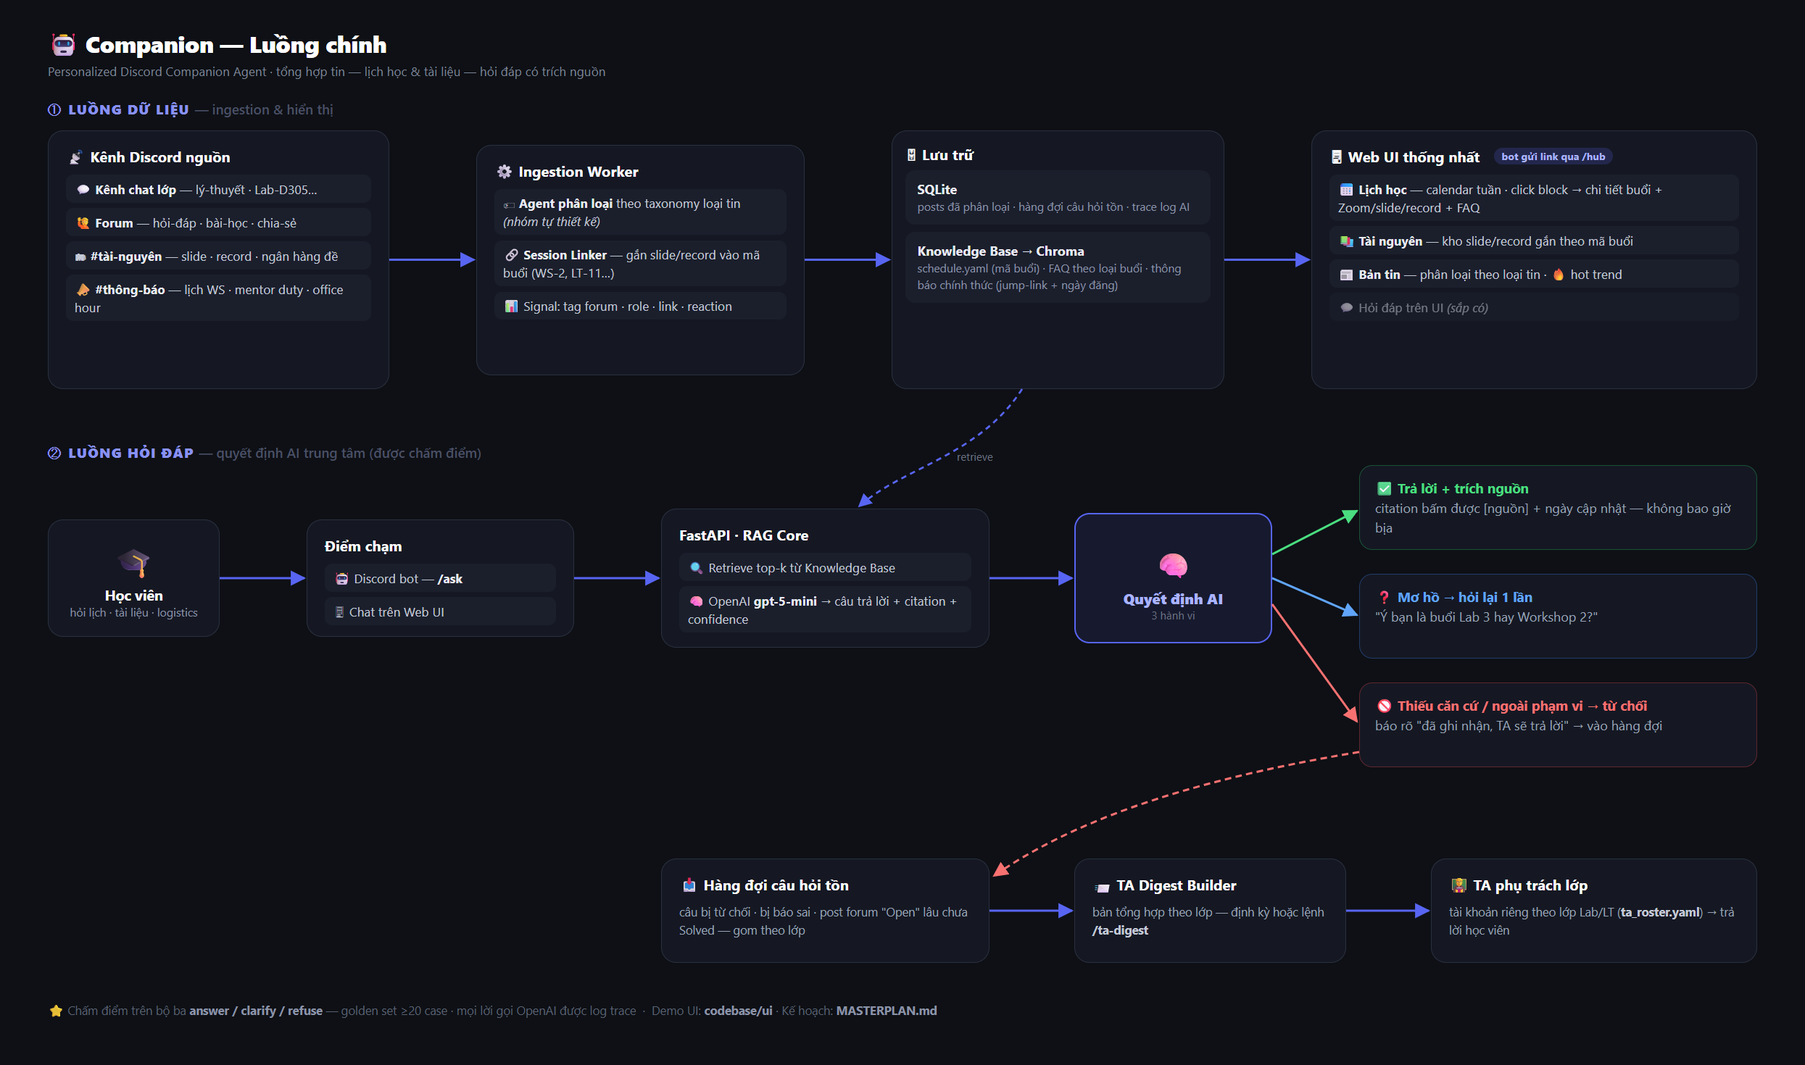
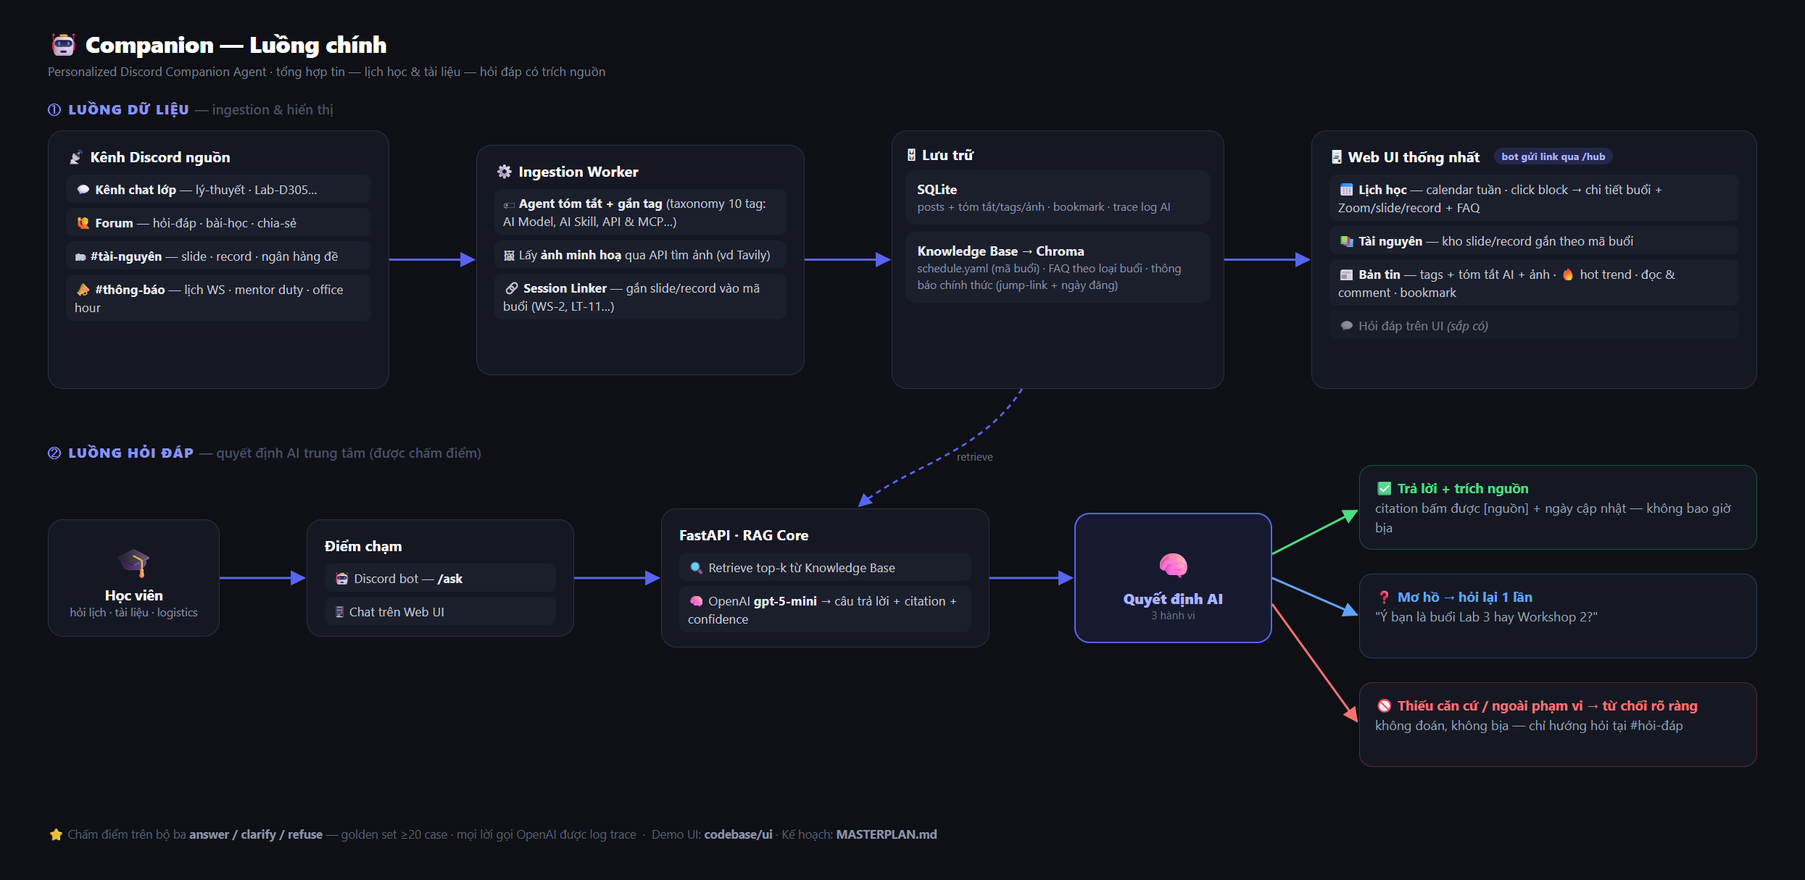
Remove TA escalation flow; refusal now redirects to #hoi-dap channel
- Central AI decision simplified: answer-with-citation / clarify /
  refuse (honest refusal pointing users to #hoi-dap) - no more queue,
  TA digest, /ta-digest command, TA accounts or ta_roster.yaml
- MASTERPLAN: slice sentence, architecture (mermaid + component table),
  digest sources, difficulty layer 1, automation rationale,
  failure/correction paths, HAX principles, roles (Minh 4 bot commands,
  Binh drops ta_roster), repo tree updated
- Flow diagram: TA row removed, refuse branch reworded; ingestion box
  now shows summarize + 10-tag taxonomy + Tavily image step

diff --git a/codebase/ui/public/flow.html b/codebase/ui/public/flow.html
@@ -5,7 +5,7 @@
 <style>
   * { margin:0; padding:0; box-sizing:border-box; }
   body { background:#0e1015; font-family:"Segoe UI",system-ui,sans-serif; color:#e5e7eb; }
-  #canvas { position:relative; width:1660px; height:980px; background:#0e1015; overflow:hidden; }
+  #canvas { position:relative; width:1660px; height:810px; background:#0e1015; overflow:hidden; }
   .box { position:absolute; background:#151823; border:1px solid #2a3040; border-radius:14px; padding:14px 16px; }
   .box h3 { font-size:13.5px; font-weight:700; color:#fff; margin-bottom:8px; display:flex; align-items:center; gap:7px; }
   .box .sub { font-size:10.5px; color:#8b93a7; margin-top:-6px; margin-bottom:8px; }
@@ -41,16 +41,16 @@
 
   <div class="box" style="left:438px;top:133px;width:302px;height:212px;">
     <h3>⚙ Ingestion Worker</h3>
-    <div class="item">🏷 <b>Agent phân loại</b> theo taxonomy loại tin <i>(nhóm tự thiết kế)</i></div>
+    <div class="item">🏷 <b>Agent tóm tắt + gắn tag</b> (taxonomy 10 tag: AI Model, AI Skill, API &amp; MCP…)</div>
+    <div class="item">🖼 Lấy <b>ảnh minh hoạ</b> qua API tìm ảnh (vd Tavily)</div>
     <div class="item">🔗 <b>Session Linker</b> — gắn slide/record vào mã buổi (WS-2, LT-11…)</div>
-    <div class="item">📊 Signal: tag forum · role · link · reaction</div>
   </div>
 
   <div class="box" style="left:820px;top:120px;width:306px;height:238px;padding:12px;">
     <h3 style="margin-bottom:6px;">🗄 Lưu trữ</h3>
     <div style="background:#1b1f2c;border-radius:9px;padding:9px 11px;margin-bottom:7px;">
       <div style="font-size:12px;font-weight:700;color:#e8eaf1;">SQLite</div>
-      <div style="font-size:10.5px;color:#8b93a7;line-height:1.5;">posts đã phân loại · hàng đợi câu hỏi tồn · trace log AI</div>
+      <div style="font-size:10.5px;color:#8b93a7;line-height:1.5;">posts + tóm tắt/tags/ảnh · bookmark · trace log AI</div>
     </div>
     <div style="background:#1b1f2c;border-radius:9px;padding:9px 11px;">
       <div style="font-size:12px;font-weight:700;color:#e8eaf1;">Knowledge Base → Chroma</div>
@@ -62,7 +62,7 @@
     <h3>🖥 Web UI thống nhất <span class="tag" style="background:#5865f233;color:#aab4ff;">bot gửi link qua /hub</span></h3>
     <div class="item">📅 <b>Lịch học</b> — calendar tuần · click block → chi tiết buổi + Zoom/slide/record + FAQ</div>
     <div class="item">📚 <b>Tài nguyên</b> — kho slide/record gắn theo mã buổi</div>
-    <div class="item">📰 <b>Bản tin</b> — phân loại theo loại tin · 🔥 hot trend</div>
+    <div class="item">📰 <b>Bản tin</b> — tags + tóm tắt AI + ảnh · 🔥 hot trend · đọc &amp; comment · bookmark</div>
     <div class="item" style="opacity:.55;">💬 Hỏi đáp trên UI <i>(sắp có)</i></div>
   </div>
 
@@ -102,31 +102,17 @@
     <span style="color:#9aa3b5;">"Ý bạn là buổi Lab 3 hay Workshop 2?"</span>
   </div>
   <div class="out" style="left:1250px;top:628px;width:366px;height:78px;border:1px solid #ef444455;">
-    <b style="color:#f87171;">🚫 Thiếu căn cứ / ngoài phạm vi → từ chối</b><br/>
-    <span style="color:#9aa3b5;">báo rõ "đã ghi nhận, TA sẽ trả lời" → vào hàng đợi</span>
-  </div>
-
-  <!-- TA escalation row -->
-  <div class="box" style="left:608px;top:790px;width:302px;height:96px;">
-    <h3>📥 Hàng đợi câu hỏi tồn</h3>
-    <div style="font-size:11px;color:#9aa3b5;line-height:1.5;">câu bị từ chối · bị báo sai · post forum "Open" lâu chưa Solved — gom theo lớp</div>
-  </div>
-  <div class="box" style="left:988px;top:790px;width:250px;height:96px;">
-    <h3>📨 TA Digest Builder</h3>
-    <div style="font-size:11px;color:#9aa3b5;line-height:1.5;">bản tổng hợp theo lớp — định kỳ hoặc lệnh <b style="color:#c3c9d6;">/ta-digest</b></div>
-  </div>
-  <div class="box" style="left:1316px;top:790px;width:300px;height:96px;">
-    <h3>🧑🏫 TA phụ trách lớp</h3>
-    <div style="font-size:11px;color:#9aa3b5;line-height:1.5;">tài khoản riêng theo lớp Lab/LT (<b style="color:#c3c9d6;">ta_roster.yaml</b>) → trả lời học viên</div>
+    <b style="color:#f87171;">🚫 Thiếu căn cứ / ngoài phạm vi → từ chối rõ ràng</b><br/>
+    <span style="color:#9aa3b5;">không đoán, không bịa — chỉ hướng hỏi tại #hỏi-đáp</span>
   </div>
 
   <!-- Footer -->
-  <div style="position:absolute;left:44px;top:922px;font-size:11px;color:#5a6172;">
+  <div style="position:absolute;left:44px;top:760px;font-size:11px;color:#5a6172;">
     ⭐ Chấm điểm trên bộ ba <b style="color:#8b93a7;">answer / clarify / refuse</b> — golden set ≥20 case · mọi lời gọi OpenAI được log trace &nbsp;·&nbsp; Demo UI: <b style="color:#8b93a7;">codebase/ui</b> · Kế hoạch: <b style="color:#8b93a7;">MASTERPLAN.md</b>
   </div>
 
   <!-- Wires -->
-  <svg class="wires" width="1660" height="980" viewBox="0 0 1660 980">
+  <svg class="wires" width="1660" height="810" viewBox="0 0 1660 810" preserveAspectRatio="none">
     <defs>
       <marker id="ar" viewBox="0 0 10 10" refX="9" refY="5" markerWidth="7" markerHeight="7" orient="auto-start-reverse">
         <path d="M0,0 L10,5 L0,10 z" fill="#5865f2"/>
@@ -156,11 +142,6 @@
     <line x1="1170" y1="510" x2="1248" y2="470" stroke="#4ade80" stroke-width="2" marker-end="url(#arg)"/>
     <line x1="1170" y1="532" x2="1248" y2="566" stroke="#60a5fa" stroke-width="2" marker-end="url(#arb)"/>
     <line x1="1170" y1="556" x2="1248" y2="664" stroke="#f87171" stroke-width="2" marker-end="url(#arr)"/>
-    <!-- refuse -> queue -->
-    <path d="M 1250 692 C 1080 720, 980 760, 914 806" fill="none" stroke="#f87171" stroke-width="2" stroke-dasharray="6 4" marker-end="url(#arr)"/>
-    <!-- queue -> digest -> TA -->
-    <line x1="910" y1="838" x2="986" y2="838" stroke="#5865f2" stroke-width="2" marker-end="url(#ar)"/>
-    <line x1="1238" y1="838" x2="1314" y2="838" stroke="#5865f2" stroke-width="2" marker-end="url(#ar)"/>
   </svg>
 </div>
 </body>

diff --git a/MASTERPLAN.md b/MASTERPLAN.md
@@ -11,17 +11,15 @@ Một trợ lý đồng hành cá nhân hoá cho học viên khoá AI Thực Chi
 
 1. **Bản tin tổng hợp (News Digest)** — gom bài viết từ 2 nhóm kênh Discord của khoá: **kênh chat từng lớp** (`lý-thuyết`, `thực-hành-lab/Lab-XXX`…) và **kênh forum chia sẻ** (`hỏi-đáp`, `chia-sẻ`, `bài-học`) — agent phân loại theo **bộ loại tin do nhóm tự thiết kế** (taxonomy chốt sau, xem mục Nguồn digest).
 2. **Trung tâm buổi học (Session Hub)** — lịch học, tài liệu tương ứng từng buổi, và FAQ theo loại buổi (Lý thuyết · Lab · Workshop · Office hour). Khung lịch là YAML do nhóm curate; **tài liệu (slide, record Zoom) tự động gắn vào block từng buổi** từ kênh `tài-nguyên`, còn thông tin buổi (giờ, hình thức, diễn giả, link Zoom) và hoạt động tuần (mentor duty, office hour) cập nhật từ kênh `thông-báo`.
-3. **Q&A có trích nguồn** — hỏi đáp về logistics và nội dung khoá, trả lời **chỉ từ nguồn chính thức kèm citation**; biết-mình-không-biết thì ghi nhận câu hỏi vào hàng đợi, **tổng hợp gửi cho TA phụ trách đúng lớp Lab/LT** (mỗi TA có tài khoản riêng).
+3. **Q&A có trích nguồn** — hỏi đáp về logistics và nội dung khoá, trả lời **chỉ từ nguồn chính thức kèm citation**; biết-mình-không-biết thì **từ chối rõ ràng** và chỉ hướng người dùng hỏi tại kênh `#hỏi-đáp`.
 
 Tất cả hiển thị trên **một Web UI thống nhất**; Discord bot gửi link UI khi user gõ lệnh, đồng thời trả lời Q&A ngay trong Discord.
 
 ## 2. Lát cắt hackathon (MỘT CÂU — bắt buộc theo đề bài)
 
-> **Một học viên** khoá AI Thực Chiến · **hỏi về lịch học / tài liệu / logistics buổi học** · **AI quyết định: trả lời kèm trích nguồn chính thức, hỏi lại khi mơ hồ, hay từ chối + ghi nhận cho TA** · **nhận câu trả lời đúng có citation, hoặc được báo rõ câu hỏi đã chuyển đến TA phụ trách — không bao giờ nhận thông tin bịa.**
+> **Một học viên** khoá AI Thực Chiến · **hỏi về lịch học / tài liệu / logistics buổi học** · **AI quyết định: trả lời kèm trích nguồn chính thức, hỏi lại khi mơ hồ, hay từ chối rõ ràng** · **nhận câu trả lời đúng có citation, hoặc lời từ chối kèm chỉ hướng hỏi tại `#hỏi-đáp` — không bao giờ nhận thông tin bịa.**
 
-**Quyết định AI trung tâm** (chấm điểm, có golden set): bộ ba **answer-with-citation / clarify / refuse-and-escalate** trong Q&A. Đây là lời gọi AI thật, không hardcode.
-
-**Cơ chế escalation:** câu hỏi bot không trả lời được → lưu vào hàng đợi kèm lớp/buổi liên quan → **bản tổng hợp câu hỏi chưa trả lời** gửi qua Discord cho **tài khoản TA phụ trách đúng lớp Lab/LT đó** (map trong `ta_roster.yaml`), theo định kỳ hoặc lệnh `/ta-digest`. Đây chính là hướng "bản tin cuối ngày cho TA (câu hỏi tồn)" mà đề bài gợi ý — điểm cộng khi trình bày.
+**Quyết định AI trung tâm** (chấm điểm, có golden set): bộ ba **answer-with-citation / clarify / refuse** trong Q&A. Đây là lời gọi AI thật, không hardcode.
 
 **Các phần KHÔNG phải quyết định trung tâm** (được phép mock/rule-based, khai rõ trong spec):
 - Phân loại tin cho digest: agent phân loại theo taxonomy loại tin nhóm tự thiết kế (chốt sau) — là lời gọi AI phụ, không phải quyết định trung tâm nên không cần golden set riêng, nhưng khai rõ trong spec.
@@ -53,8 +51,6 @@ flowchart LR
     BOT <--> API
     UI[Web UI — React/Vite\nTab: News · Schedule · Chat] <--> API
     BOT -->|gửi link| UI
-    DB -->|câu chưa trả lời\ngom theo lớp| TDG[TA Digest Builder]
-    TDG -->|bot gửi DM| TA((Tài khoản TA\nphụ trách Lab/LT))
 ```
 
 **Thành phần & interface:**
@@ -67,7 +63,6 @@ flowchart LR
 | RAG Core | Chroma + OpenAI API — embeddings `text-embedding-3-small`, chat `gpt-5-mini` (nâng `gpt-5` nếu cần chất lượng) | retrieval top-k → prompt sinh answer + citation + confidence → quyết định answer/clarify/refuse | hàm `answer(question) -> {answer, citations, action, confidence}` |
 | Knowledge Base | YAML/Markdown trong repo + ingest từ Discord | `schedule.yaml`, `faq/*.md` theo loại buổi, tài liệu buổi học, **thông báo chính thức ingest từ kênh `thông-báo`** (citation = jump-link + ngày đăng) | build script → Chroma |
 | Web UI | React + Vite + Tailwind | 3 tab: News (lọc theo loại tin) · Schedule (lịch + tài liệu + FAQ từng buổi) · Chat (widget gọi `/api/ask`) | fetch REST |
-| TA Digest | script Python + bot DM | gom câu hỏi chưa trả lời trong DB theo lớp Lab/LT (map `ta_roster.yaml`: TA ↔ lớp phụ trách) → gửi bản tổng hợp cho tài khoản TA tương ứng, định kỳ hoặc khi TA gõ `/ta-digest` | đọc SQLite, gửi qua bot |
 
 ### Nguồn digest & chiến lược phân loại (theo cấu trúc server thật)
 
@@ -80,12 +75,12 @@ flowchart LR
 | Nhóm kênh | Ví dụ | Cấu trúc | Signal khả dụng cho classifier |
 |---|---|---|---|
 | **Chat từng lớp** | category `thực-hành-lab` → kênh `Lab-D305`, kênh `lý-thuyết` | message thường, không tag | Role tác giả (Lab Coach/TA), link Google Form/Docs, attachment, pinned, reaction — **phương pháp tiếp cận cụ thể (heuristic hay LLM, xử lý link/attachment thế nào) đang nghiên cứu, chốt sau** |
-| **Forum hỏi-đáp** | `🙋-hỏi-đáp` | post có tag sẵn: `Open`/`Solved` + chủ đề (`AI/LLM`, `Frontend`, `Backend`, `Deploy`…) | Tag làm signal phụ trợ; riêng trạng thái `Open` lâu chưa `Solved` được dùng cho TA digest (câu hỏi tồn) |
+| **Forum hỏi-đáp** | `🙋-hỏi-đáp` | post có tag sẵn: `Open`/`Solved` + chủ đề (`AI/LLM`, `Frontend`, `Backend`, `Deploy`…) | Tag làm signal phụ trợ cho classifier |
 | **Forum chia sẻ / bài học** | `📖-bài-học`, `chia-sẻ` | post có tag sẵn: `Tip`, `Tutorial`, `Deep Dive`, `A vs B`, `Postmortem`, `Retro`, `Gotcha`, `Paper/Video` | Tag + reaction/comment làm signal; rank độ nổi bật để chọn "bài đáng đọc" của ngày |
 
 - **Quyết định mở còn lại (chốt trước CP2):** phương pháp phân loại message kênh chat lớp (link, attachment) — An đang nghiên cứu. (Taxonomy loại tin đã chốt như trên — An thiết kế.) Ingestion worker build trước phần đọc kênh + lưu metadata, phần phân loại cắm sau.
 - **Metadata lưu mỗi bài:** kênh, nhóm kênh, lớp (nếu là kênh lớp), tác giả + role, tags, số reaction/comment, timestamp, **jump-link về message gốc** (digest chỉ dẫn link, không copy nội dung dài).
-- **Synergy:** forum `hỏi-đáp` đồng thời là mỏ dữ liệu cho Bình — mining evidence (câu hỏi nguyên văn) và golden set; post `Open` tồn đọng chảy vào TA digest theo đúng cơ chế escalation mục 2.
+- **Synergy:** forum `hỏi-đáp` đồng thời là mỏ dữ liệu cho Bình — mining evidence (câu hỏi nguyên văn) và golden set.
 - Phân loại digest là **lời gọi AI phụ** — khai rõ trong spec; quyết định AI trung tâm được chấm vẫn chỉ là Q&A.
 
 ### Session Hub: nguồn dữ liệu & cơ chế gắn tài liệu
@@ -106,18 +101,18 @@ flowchart LR
 
 | Lớp | Cụ thể hoá trong Companion | Hành vi thiết kế |
 |---|---|---|
-| ① **Nguồn sự thật** | AI có thể bịa deadline, link nộp bài, phòng học | Chỉ sinh câu trả lời từ chunks retrieve được; **mọi claim phải có citation** trỏ về file nguồn; không tìm thấy căn cứ → từ chối + ghi vào hàng đợi gửi TA phụ trách |
+| ① **Nguồn sự thật** | AI có thể bịa deadline, link nộp bài, phòng học | Chỉ sinh câu trả lời từ chunks retrieve được; **mọi claim phải có citation** trỏ về file nguồn; không tìm thấy căn cứ → từ chối rõ ràng + chỉ hướng hỏi tại `#hỏi-đáp` |
 | ② **Mơ hồ / thiếu thông tin** | "Buổi lab tuần này học gì?" — lab nào, tuần nào? | Hỏi lại **tối đa 1 lần** với lựa chọn cụ thể; user không rõ tiếp → đưa link Schedule trên UI |
 | ③ **Ngoài phạm vi / thẩm quyền** | Xin đáp án assignment, hỏi điểm cá nhân, thông tin học viên khác, xin extend deadline | Từ chối hữu ích: nói rõ vì sao + chỉ đúng người/kênh có thẩm quyền (TA, giảng viên) |
 | ④ **Đặc thù domain** | Trả lời **sai deadline/lịch học → học viên nộp muộn, mất điểm thật** (cost-of-error cao nhất) | Ưu tiên precision hơn coverage: confidence thấp → refuse chứ không đoán; câu về deadline luôn kèm nguyên văn nguồn + ngày cập nhật |
 
-**Automation level & lý do (R2):** AI tự trả lời khi retrieval score cao và câu hỏi thuộc scope; **human-in-the-loop** cho mọi case còn lại — câu hỏi vào hàng đợi và TA phụ trách lớp trả lời qua bản tổng hợp. Cost-of-error của sai logistics là học viên mất điểm thật, trong khi cost của escalation chỉ là độ trễ đến bản tổng hợp kế tiếp — và học viên được báo rõ ngay là câu hỏi đã chuyển TA, không bị treo trong im lặng.
+**Automation level & lý do (R2):** AI tự trả lời khi retrieval score cao và câu hỏi thuộc scope; mọi case còn lại bot **từ chối rõ ràng và chỉ hướng người dùng hỏi trực tiếp tại kênh `#hỏi-đáp`**. Cost-of-error của sai logistics là học viên mất điểm thật, trong khi cost của một lời từ chối trung thực chỉ là user mất thêm một bước hỏi ở kênh — đánh đổi này luôn xứng đáng.
 
 **4 đường trải nghiệm (R3):**
 - **Happy:** hỏi "deadline nộp spec?" → answer + citation `[schedule.yaml]` + ngày cập nhật.
 - **Low-confidence:** retrieval mờ → "Mình chưa chắc, ý bạn là buổi Lab 3 hay Workshop 2?" (clarify 1 lần).
-- **Failure:** không có nguồn → "Mình không có thông tin chính thức về việc này — câu hỏi đã được ghi nhận và sẽ gửi TA phụ trách lớp của bạn trong bản tổng hợp gần nhất."
-- **Correction:** user bảo "sai rồi" → xin lỗi, ghi feedback log, đưa câu hỏi + câu trả lời bị báo sai vào hàng đợi để TA phụ trách xác nhận; không cãi.
+- **Failure:** không có nguồn → "Mình không có thông tin chính thức về việc này — bạn hỏi trực tiếp tại kênh `#hỏi-đáp` nhé."
+- **Correction:** user bảo "sai rồi" → xin lỗi, ghi feedback log để nhóm rà lại nguồn; không cãi.
 
 ## 5. Kiểm thử (R4 — 15 điểm)
 
@@ -134,10 +129,10 @@ flowchart LR
 | Ai | Role | Owner chính của | Deliverables (file có tên mình) | Branch |
 |---|---|---|---|---|
 | **An** | **PM / Evidence & Spec Lead** — chủ ý tưởng, thiết kế taxonomy loại tin | Pain, bằng chứng, spec, demo | Khảo sát ≥20 người + log nguyên văn · bảng impact ≥3 ứng viên + ứng viên loại · canvas CP1 · `spec.md` · taxonomy loại tin + phương pháp phân loại · slide 6 trang + demo script | `dev/An` |
-| **Minh** | **Discord Bot & Ingestion** | Toàn bộ phía Discord | Bot 5 lệnh (`/ask` `/digest` `/schedule` `/hub` `/ta-digest`) · ingestion worker 4 nhóm kênh (chat lớp · forum · `tài-nguyên` · `thông-báo`) + phân loại tin + Session Linker · TA digest gửi DM cho tài khoản TA theo lớp · server Discord test (có tài khoản TA giả lập) | `dev/Minh` |
+| **Minh** | **Discord Bot & Ingestion** | Toàn bộ phía Discord | Bot 4 lệnh (`/ask` `/digest` `/schedule` `/hub`) · ingestion worker 4 nhóm kênh (chat lớp · forum · `tài-nguyên` · `thông-báo`) + phân loại tin + Session Linker · server Discord test | `dev/Minh` |
 | **Nghĩa** | **AI Core (RAG)** | Quyết định AI trung tâm | Build KB → Chroma · prompt answer/clarify/refuse + citation · confidence & handoff logic · log traces | `dev/Nghia` |
 | **Hải** | **Web UI** | Trải nghiệm thống nhất | React app 3 tab (News · Schedule · Chat) · chat widget gọi API · thể hiện 4 đường trải nghiệm trên UI | `dev/Hai` |
-| **Bình** | **Data & QA/Eval** | Sự thật & đo lường | Curate `schedule.yaml` (mã buổi chuẩn) + sync khi lịch đổi + FAQ theo loại buổi + `ta_roster.yaml` (TA ↔ lớp phụ trách) · golden set ≥20 · `run_eval.py` + bảng kết quả · mining Discord (số đếm + ≥5 ví dụ nguyên văn + phương pháp) | `dev/Binh` |
+| **Bình** | **Data & QA/Eval** | Sự thật & đo lường | Curate `schedule.yaml` (mã buổi chuẩn) + sync khi lịch đổi + FAQ theo loại buổi · golden set ≥20 · `run_eval.py` + bảng kết quả · mining Discord (số đếm + ≥5 ví dụ nguyên văn + phương pháp) | `dev/Binh` |
 
 Hỗ trợ chéo: An↔Bình chung mảng evidence/validation; Minh↔Nghĩa chung contract API `/api/ask`; Hải dùng mock API cho tới khi Nghĩa xong; An bàn giao taxonomy cho Minh cắm vào ingestion.
 
@@ -171,7 +166,7 @@ repo/
 │   ├── bot/             # Minh — discord bot + ingestion
 │   ├── backend/         # Nghĩa — FastAPI + RAG core
 │   ├── ui/              # Hải — React app
-│   └── data/            # Bình — schedule.yaml, faq/, materials/, ta_roster.yaml (data TỰ TẠO)
+│   └── data/            # Bình — schedule.yaml, faq/, materials/ (data TỰ TẠO)
 ├── eval/
 │   ├── golden_set.yaml
 │   ├── run_eval.py
@@ -197,6 +192,6 @@ repo/
 
 1. **Make clear what the system can do** — UI Chat và `/ask` mở đầu bằng mô tả phạm vi ("mình trả lời từ nguồn chính thức của khoá").
 2. **Show contextually relevant information / sources** — mọi câu trả lời kèm citation bấm được về nguồn.
-3. **Support efficient dismissal & correction** — nút "Báo sai" trên UI + phản hồi "sai rồi" trong Discord → feedback log + vào hàng đợi TA xác nhận.
-4. **Know when to hand off** — confidence thấp/ngoài scope → không đoán, ghi nhận vào hàng đợi và bản tổng hợp gửi đúng TA phụ trách lớp (thiết kế refuse-and-escalate).
+3. **Support efficient dismissal & correction** — nút "Báo sai" trên UI + phản hồi "sai rồi" trong Discord → feedback log để nhóm rà lại nguồn.
+4. **Know when it doesn't know** — confidence thấp/ngoài scope → không đoán, từ chối rõ ràng và chỉ hướng hỏi tại `#hỏi-đáp` (thiết kế refuse trung thực).
 5. **Set expectations about uncertainty** — câu trả lời deadline kèm ngày cập nhật nguồn.
